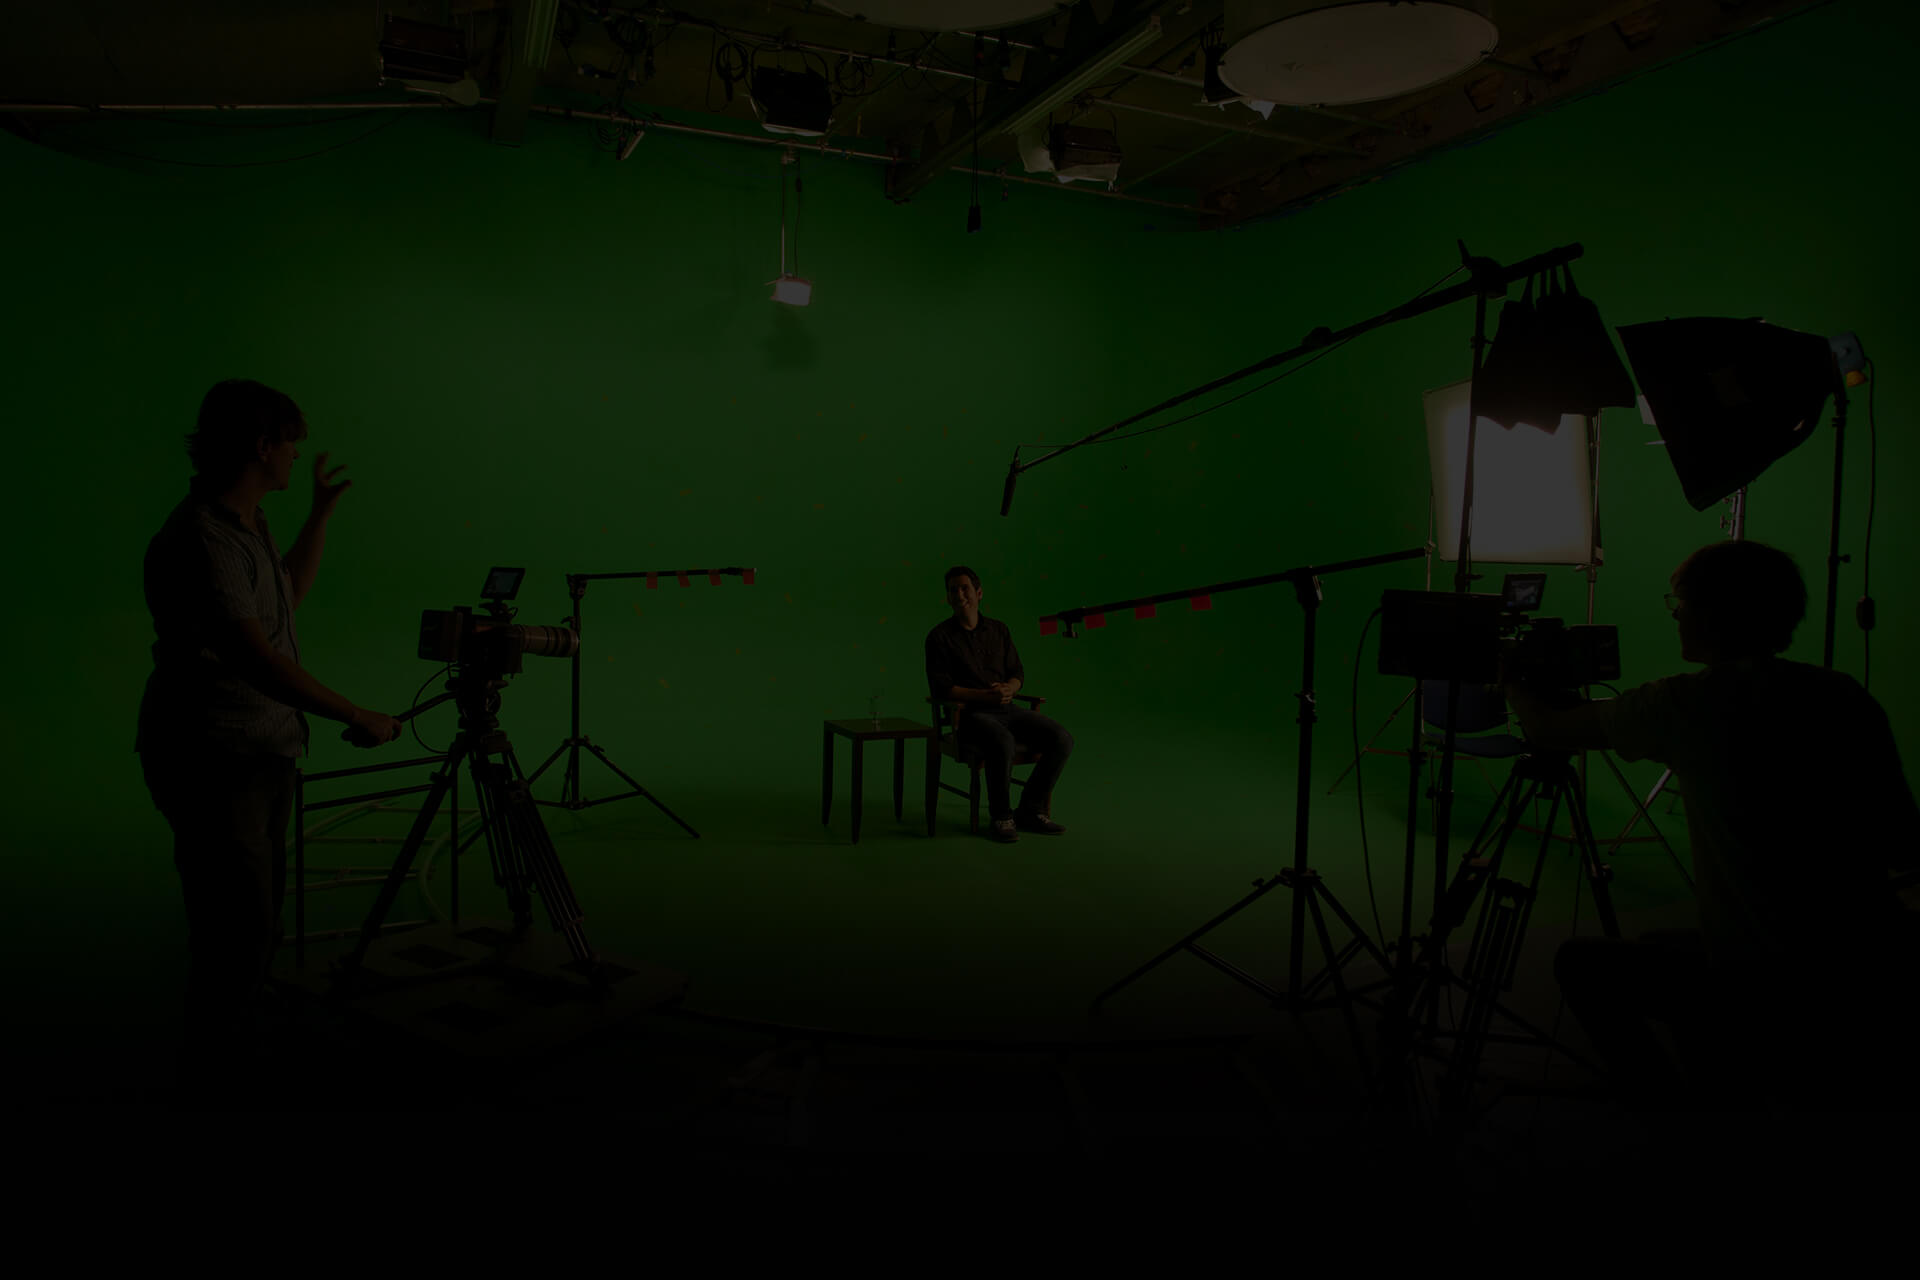
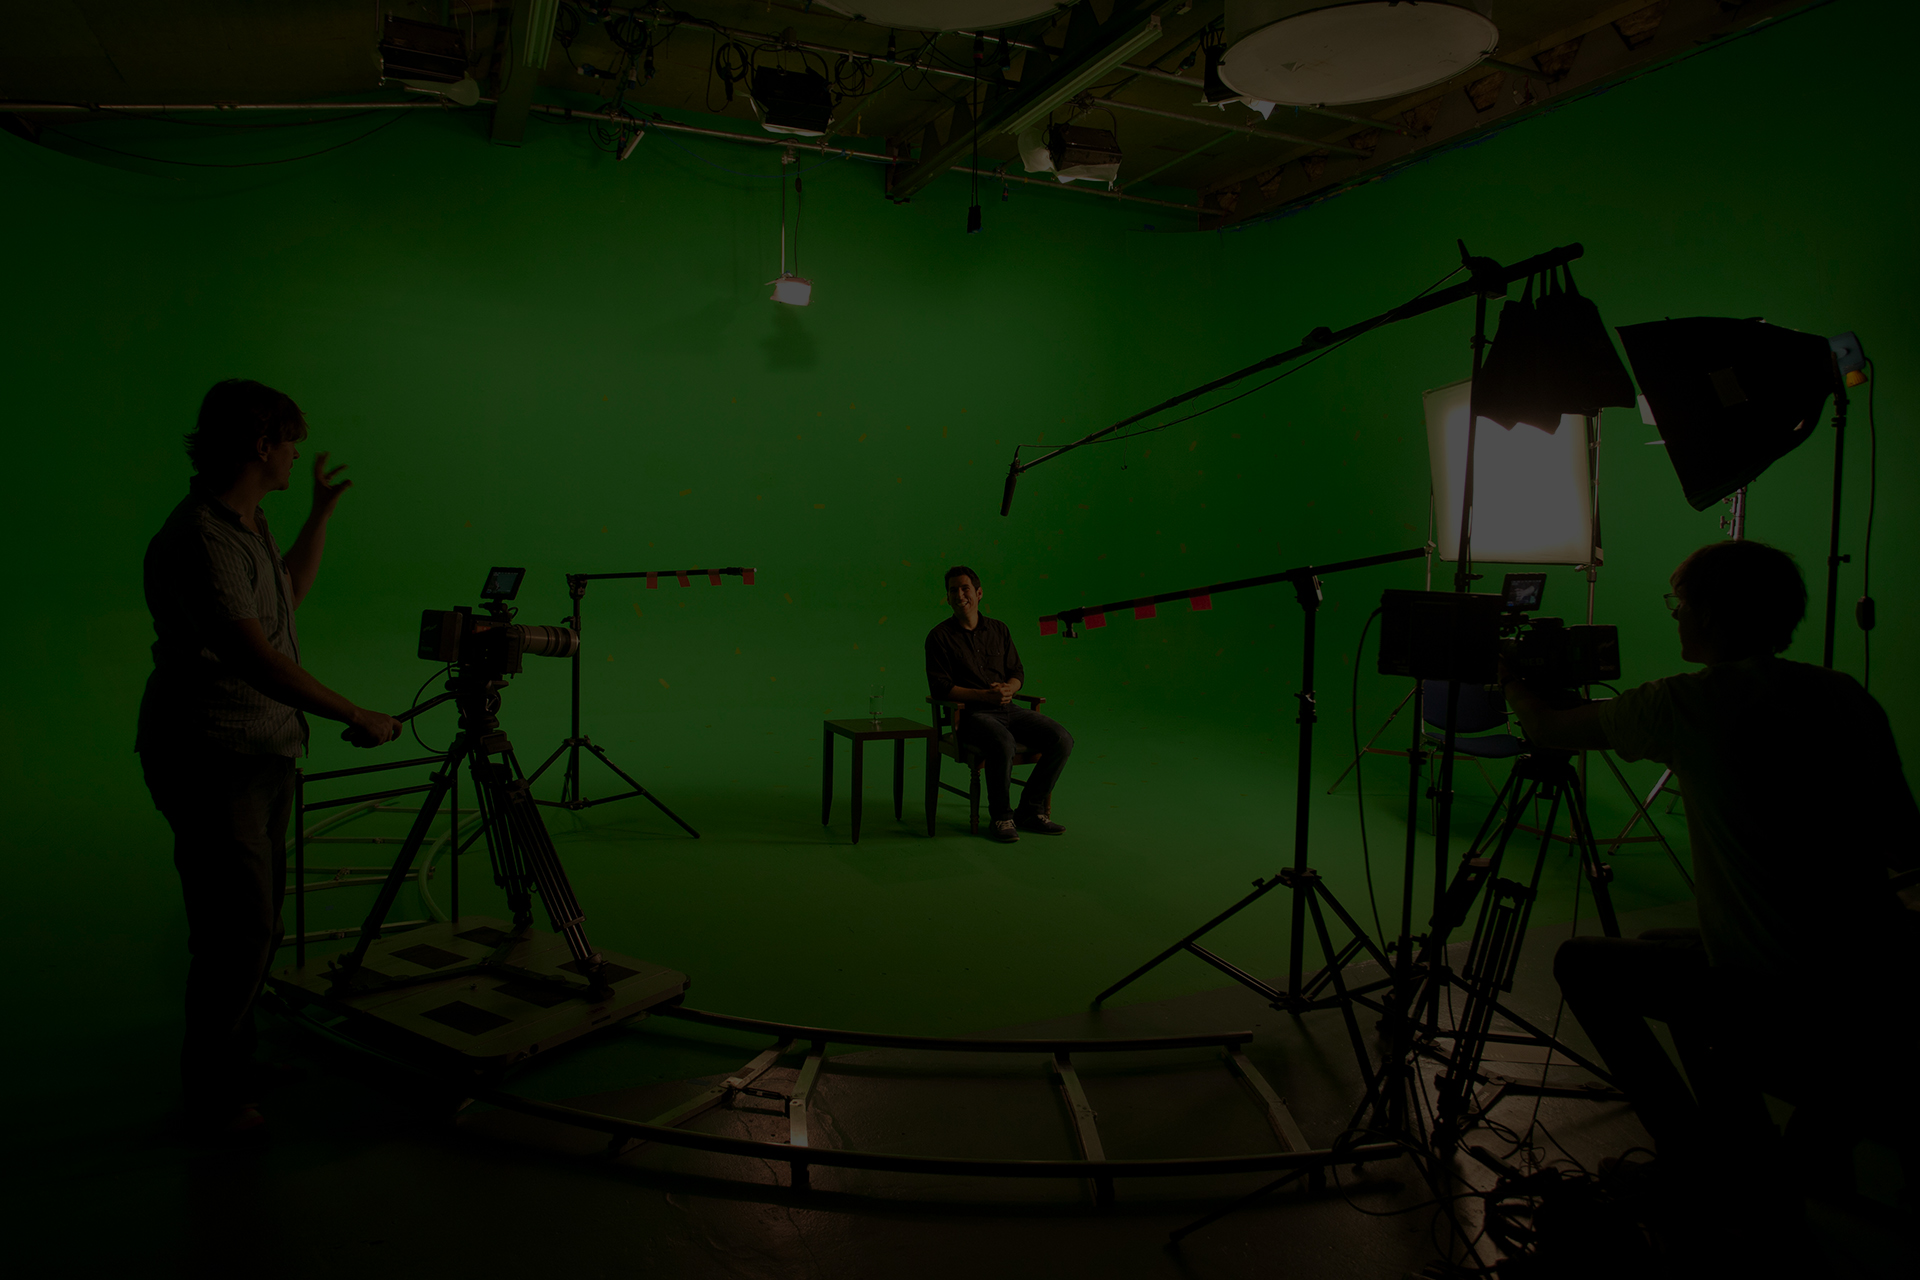
connect

diff --git a/app/03_connect.html b/app/03_connect.html
@@ -40,7 +40,7 @@
         <div class="site__header-layout">
 
             <!-- logo -->
-            <h1 class="logo">
+            <a href="#" class="logo">
 
                 <svg viewBox="0 0 614 717.667" >
                     <path fill="#fff" d="M599.712,638.859c-15.42,0.063-30.834,0.359-46.254,0.748c10.227-9.91,21.729-17.654,35.17-24.453
@@ -73,7 +73,7 @@
                             c0-52.351,42.434-94.792,94.758-94.792c52.338,0,94.781,42.441,94.781,94.792C476.366,212.503,433.923,254.945,381.585,254.945"/>
                 </svg>
 
-            </h1>
+            </a>
             <!-- /logo -->
 
             <!-- site__menu-btn -->
@@ -101,19 +101,55 @@
     <!-- site__content -->
     <div class="site__content full-height">
 
-        <!-- about-us -->
-        <div class="about-us" style="background-image: url('img/connect__bg.jpg')">
+        <!-- connect -->
+        <div class="connect" style="background-image: url('img/connect__bg.jpg')">
 
-            <!-- about-us__wrapper -->
-            <div class="about-us__wrapper">
+            <!-- connect__wrapper -->
+            <div class="connect__wrapper">
 
+                <div class="connect__centered">
+                    <h1>Ibou Studio</h1>
+                    <p>We’re awesome!</p>
+                </div>
 
+                <dl>
+                    <dt>General Inquiries</dt>
+                    <dd><a href="mailto:info@iboustudio.be">info@iboustudio.be</a></dd>
+
+                    <dt>Mailing Address</dt>
+                    <dd><a href="https://www.google.com.ua/maps/search/Avenue+des+Chevaliers+20,+1325+Dion-Valmont.+Belgium/">Avenue des Chevaliers 20, 1325 Dion-Valmont. Belgium</a></dd>
+
+                    <dt>TVA</dt>
+                    <dd>BE0628570193</dd>
+                </dl>
+
+                <dl>
+                    <dt>Kevin Antoine</dt>
+                    <dd>Art Direction I Branding I Edition</dd>
+
+                    <dt>Email</dt>
+                    <dd><a href="mailto:kevin@iboustudio.be">kevin@iboustudio.be</a></dd>
+
+                    <dt>PHONE</dt>
+                    <dd><a href="tel:0032472997252">0032 472 99 72 52</a></dd>
+                </dl>
+
+                <dl>
+                    <dt>Frédéric Vandenbroucke</dt>
+                    <dd>3D I Motion Graphics I VFX</dd>
+
+                    <dt>Email</dt>
+                    <dd><a href="mailto:fred@iboustudio.be">fred@iboustudio.be</a></dd>
+
+                    <dt>PHONE</dt>
+                    <dd><a href="tel:0032473944665">0032 473 94 46 65</a></dd>
+                </dl>
 
             </div>
-            <!-- /about-us__wrapper -->
+            <!-- /connect__wrapper -->
 
         </div>
-        <!-- /about-us -->
+        <!-- /connect -->
 
     </div>
     <!-- /site__content -->

diff --git a/app/sass/_connects.scss b/app/sass/_connects.scss
@@ -1,5 +1,5 @@
 /* ------------ connect ------------ */
-.about-us {
+.connect {
   display: flex;
   display: -ms-flexbox;
   display: -webkit-flex;
@@ -12,9 +12,8 @@
   -webkit-align-items: center;
   align-items: center;
   position: relative;
-  min-height: 100vh;
+  height: 100vh;
   padding: 120px 0;
-  color: $about-us-color;
   background-size: cover;
   background-repeat: no-repeat;
   background-position: center;
@@ -27,7 +26,7 @@
       left: 0;
       width: 100%;
       height: 100%;
-      background: rgba(0, 0, 0, 0.8);
+      background: rgba(0, 0, 0, 0.3);
       content:'';
   }
 
